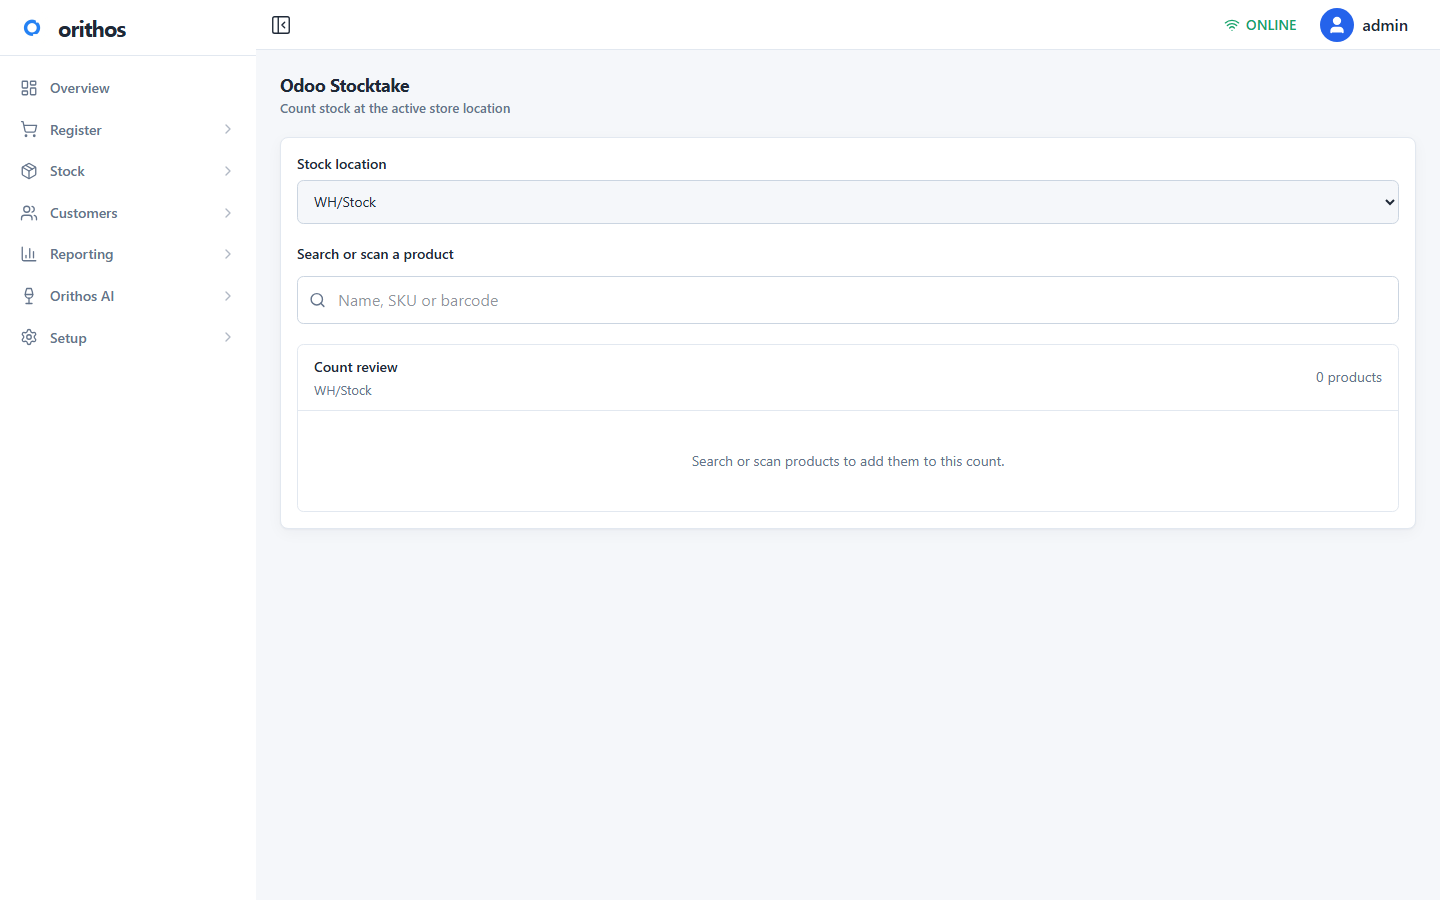
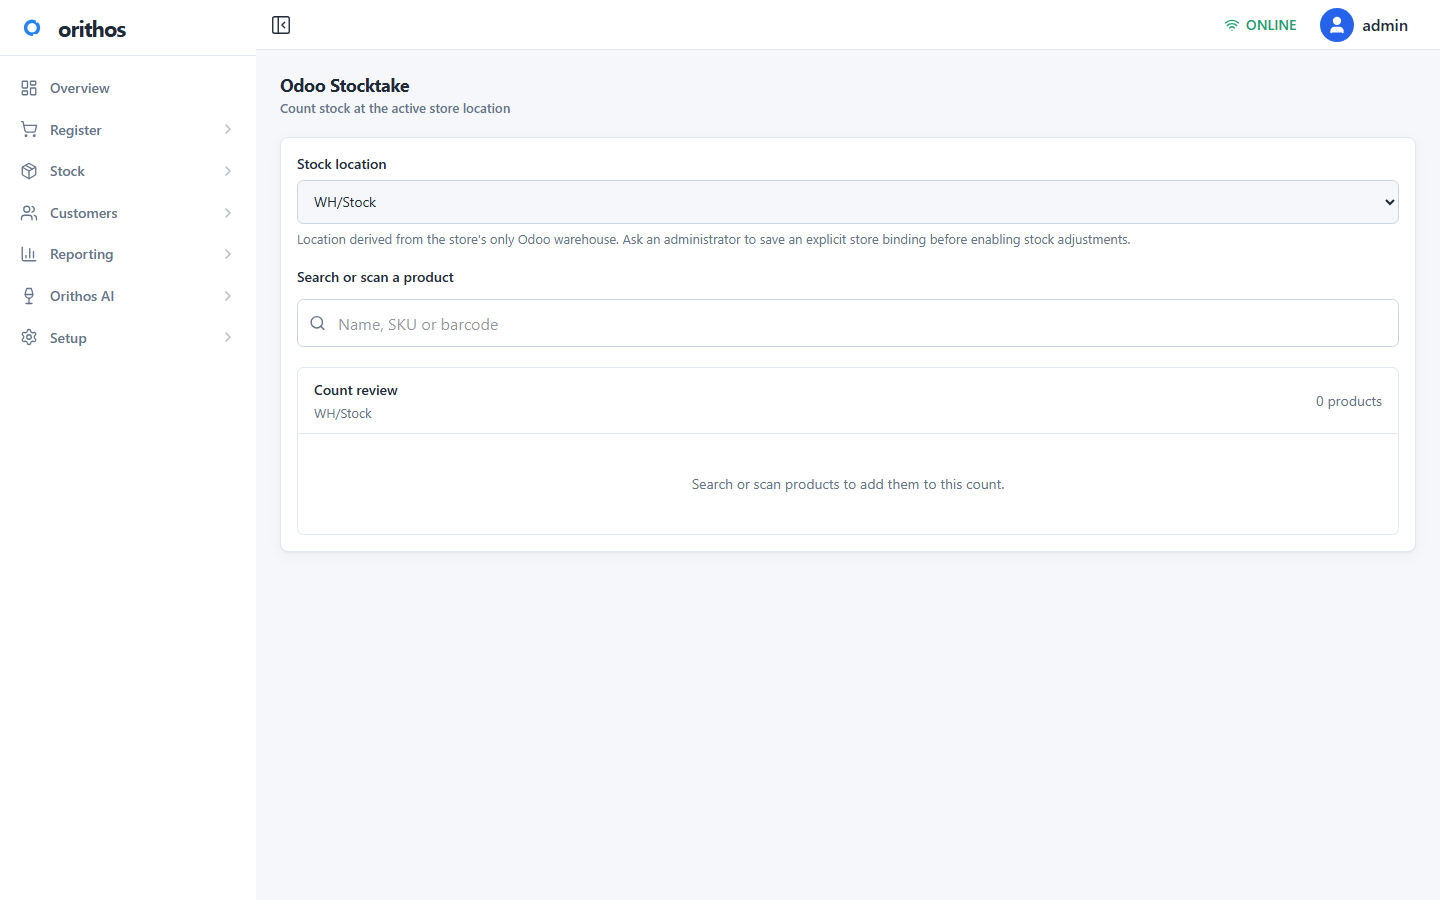
docs: record stocktake source ux uat

diff --git a/docs/HANDOFF_2026-10-19_STOCKTAKE_SOURCE_UX.md b/docs/HANDOFF_2026-10-19_STOCKTAKE_SOURCE_UX.md
@@ -1,0 +1,24 @@
+# 盘点库位来源提示批次交接
+
+更新时间：2026-10-19（Asia/Shanghai）  
+代码提交：`3cd5be03f16adbec84aca3ae30327f697aaec927`
+
+## 改动
+
+- 盘点 GET 响应新增 `locationSource`。
+- 页面在使用单 warehouse 兜底时显示提示：当前库位来自门店唯一 Odoo warehouse，并建议管理员保存显式租户绑定后再开启盘点写入。
+- 租户显式绑定时不显示兜底提示。
+
+## 部署后线上验证
+
+证据：[UAT_ODOO_STOCKTAKE_ONLINE_READONLY_2026-10-19.json](/C:/shawn/1code/1project-new/aistore_pos/v1/orithopos-master/docs/UAT_ODOO_STOCKTAKE_ONLINE_READONLY_2026-10-19.json)
+
+- 管理员登录：PASS
+- Odoo session 恢复：PASS
+- 租户 binding：PASS，company `1`，显式 location 为空，provision `ready`
+- 盘点 location GET：PASS，HTTP 200，1 个 location，`locationSource=single-warehouse-fallback`
+- 390px / 1440px 页面：PASS，无横向溢出
+- 非 GET 盘点请求：0
+- `writeEnabled=false`
+
+本地 typecheck、目标 ESLint、fixture 三视口 UAT、线上 UAT 脚本语法检查均通过；没有运行 build。真实隔离 Odoo 写入仍未验收，生产写入开关必须保持关闭。
